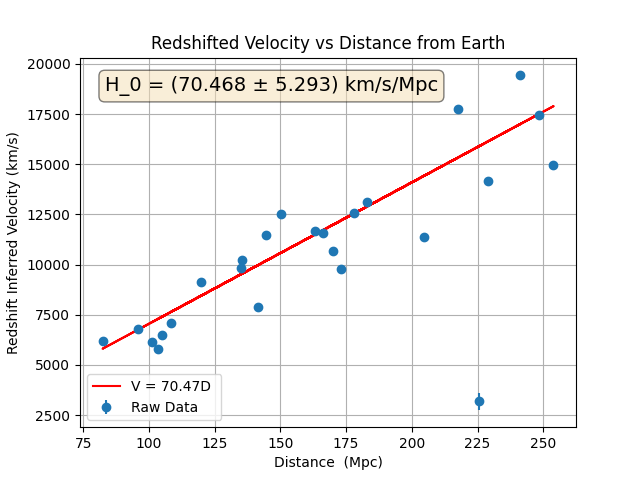
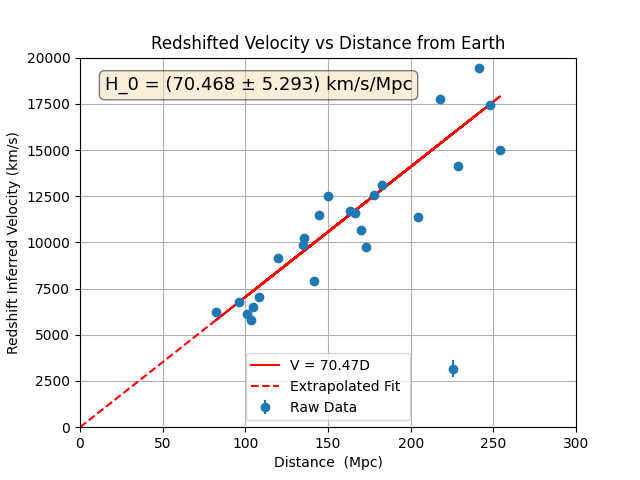
added extrapolation to graph
final push for now, project virtually complete, would probably be happy submitting

diff --git a/Hubble/hubble.py b/Hubble/hubble.py
@@ -47,7 +47,7 @@ observ_nums = []
 velocities = []
 vel_err = []
 distances=[]
-print(len(spec_data.columns))
+
 for i  in range(0,len(spec_data.columns), 2):                           #looping through the spectral data indexes, skipping two columns each iteration as each pair of columns yields the frequency and intensity data
     x = spec_data.iloc[:, i].to_numpy()             #grabbing x data from one column
     y = spec_data.iloc[:, i+1].to_numpy()           #grabbing y data from the adjacent column
@@ -87,15 +87,18 @@ print(f"Slope = {fit2[0]:20f} +- {m_err:.20f}")
 fig, ax = plt.subplots()
 plt.errorbar(x, y, yerr=y_error, fmt ='o', label = 'Raw Data')
 plt.plot(x,linear(x, m), label=f'V = {m:.2f}D ' , color = 'red')
+#extrapolating trend line to origin
+x2 = np.linspace(0, x.min())
+plt.plot(x2,linear(x2, m), label=f'Extrapolated Fit ' , color = 'red', linestyle = 'dashed')
 plt.legend()
 plt.xlabel('Distance  (Mpc)')
 plt.ylabel('Redshift Inferred Velocity (km/s)')
 plt.title("Redshifted Velocity vs Distance from Earth")
 plt.grid(True)
-
+plt.axis([0, 300, 0, 20000])
 #Code in the next 2 lines adapted from: https://matplotlib.org/stable/gallery/text_labels_and_annotations/placing_text_boxes.html
 props = dict(boxstyle='round', facecolor='wheat', alpha=0.5)
-ax.text(0.05, 0.95, f"H_0 = ({m:.3f} ± {m_err:.3f}) km/s/Mpc", transform=ax.transAxes, fontsize=14,verticalalignment='top', bbox=props)
+ax.text(0.05, 0.95, f"H_0 = ({m:.3f} ± {m_err:.3f}) km/s/Mpc", transform=ax.transAxes, fontsize=13,verticalalignment='top', bbox=props)
 plt.savefig('C:/Users/firew/Documents/GitHub/imphys/Hubble/Figures/hubble')
 plt.show()
 
